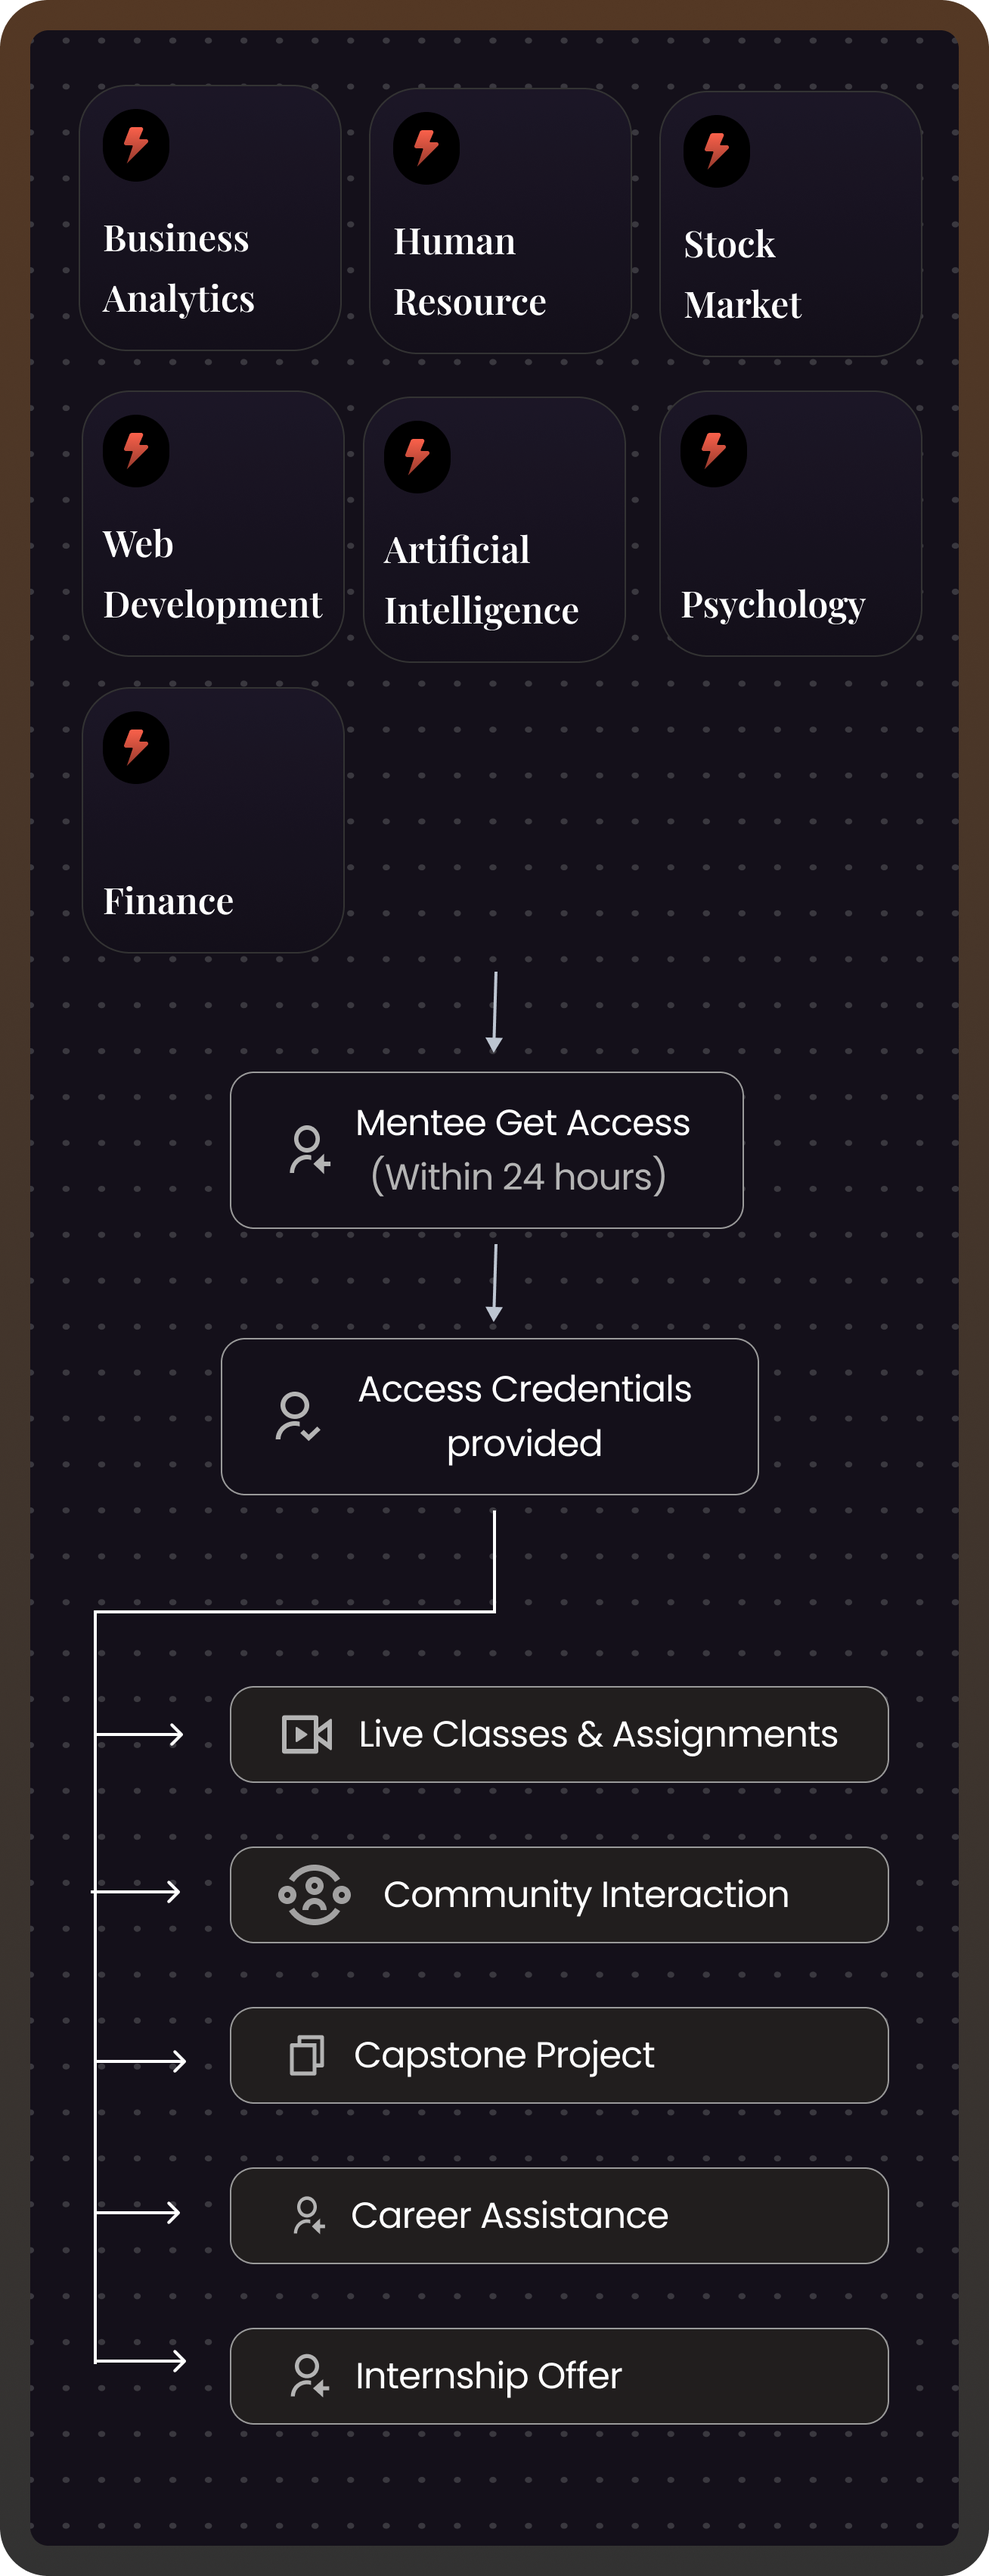
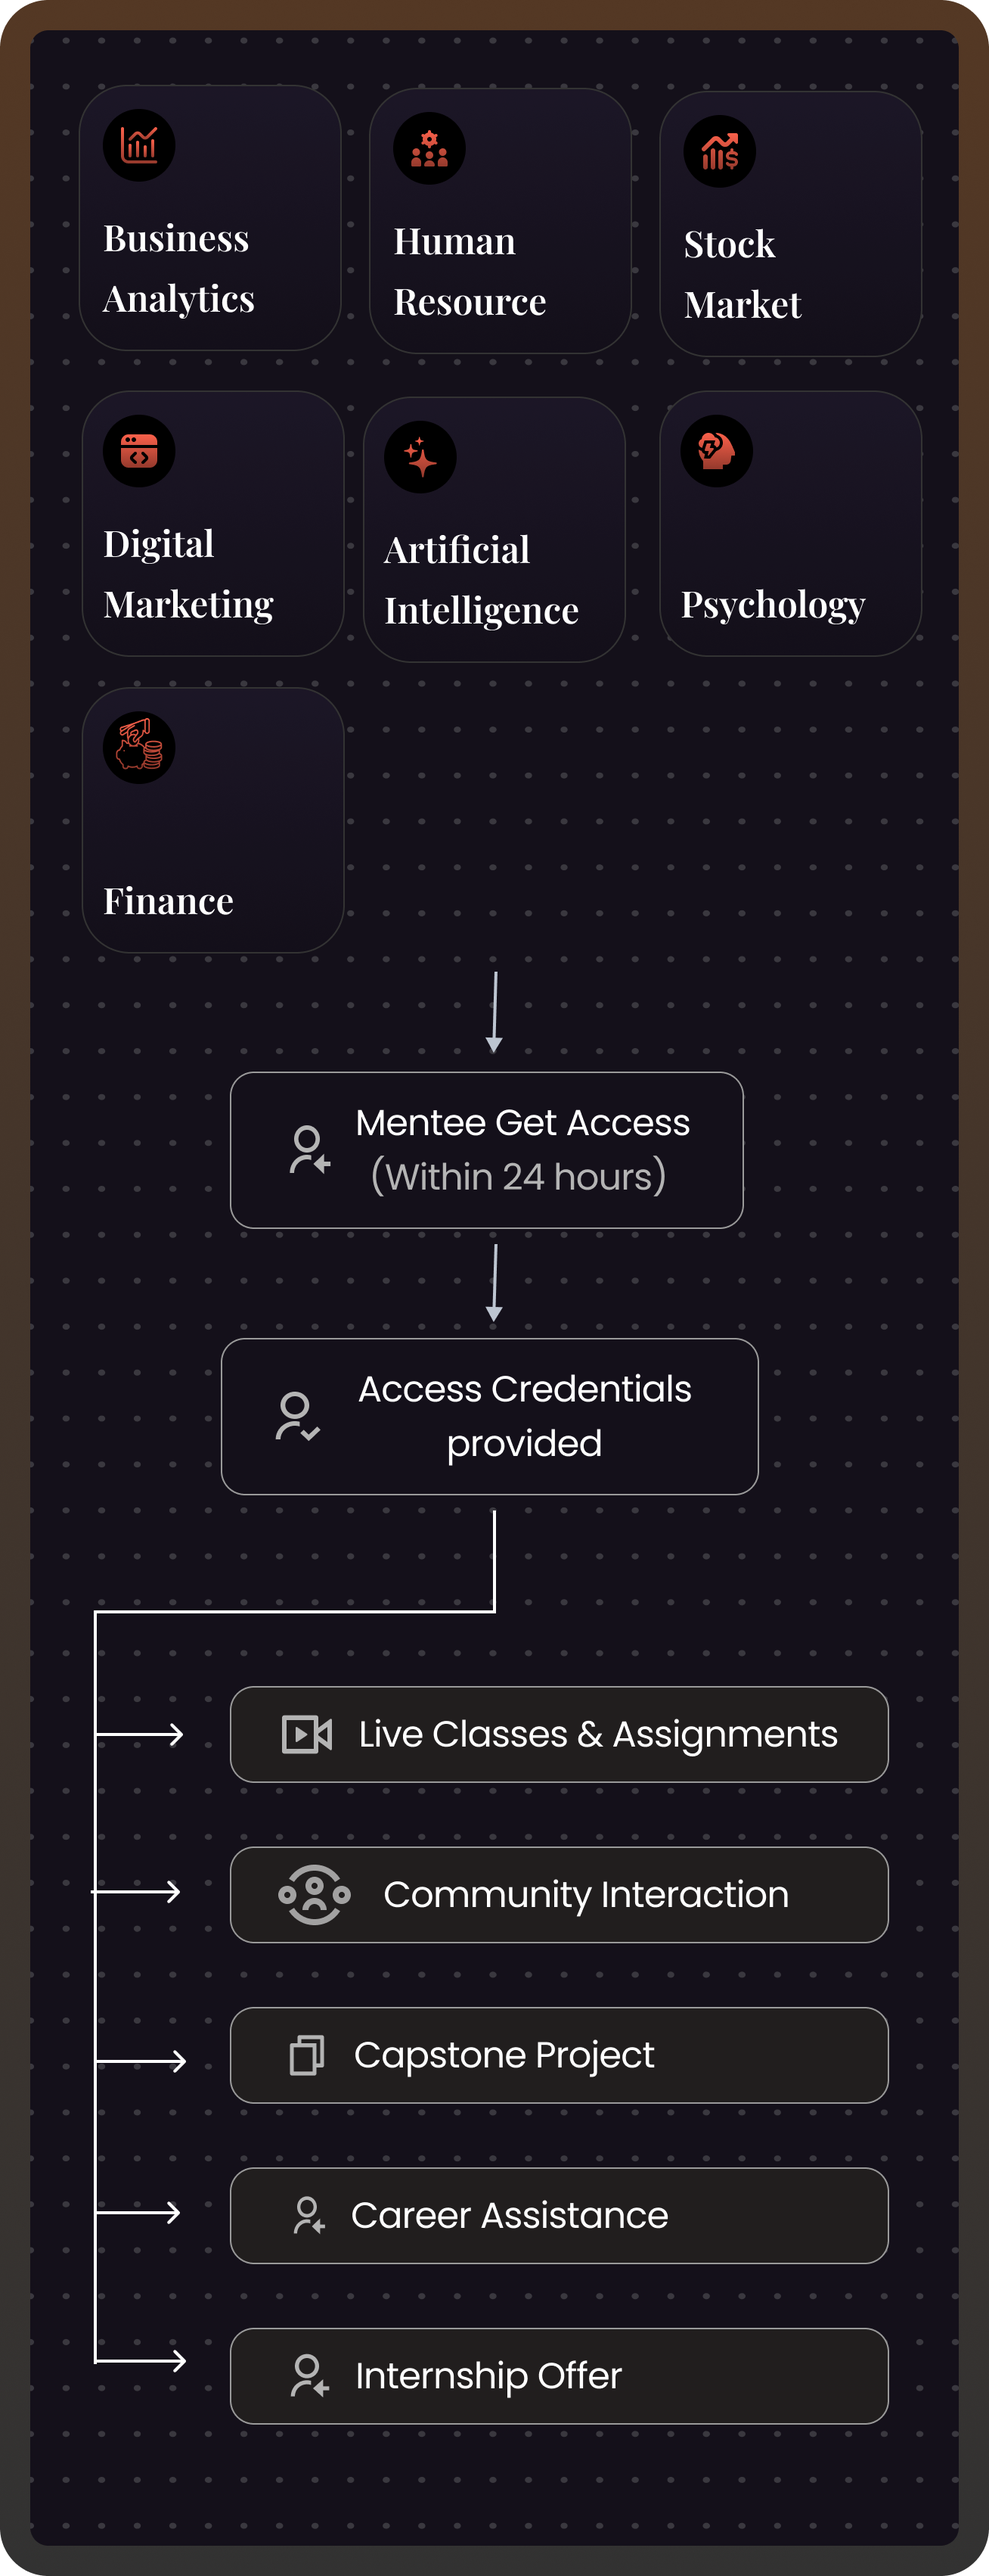
startup page modified

diff --git a/src/components/SuperStack.jsx b/src/components/SuperStack.jsx
@@ -9,7 +9,7 @@ const stackData = [
     subtitle: "5 Diverse Program",
     successRate: "93% land biz roles or launch ventures",
     tag: "Business",
-    footer: "Business Analytics · Human Resource · Finance · Fashion Design",
+    footer: "Graphic Design · UI/UX · Photography · Content creation · UI/UX",
     bgImage: require("../assets/1sttt.png"),
   },
   {
@@ -33,7 +33,7 @@ const stackData = [
     subtitle: "7 Diverse Program",
     successRate: "91% gain  confidence to lead market trends.",
     tag: "Trending",
-    footer: "Nanotechnology · Biotech · psychology · Nanotechnology · Biotech · psychology  ",
+    footer: "Business Analytics · Human Resource · Stock market · Finance · Digital Marketing ",
     bgImage: require("../assets/3rdd.png"),
   },
 ];

diff --git a/src/pages/creator-hub.jsx b/src/pages/creator-hub.jsx
@@ -4,8 +4,8 @@ import { useEffect, useRef, useState } from "react";
 import eightseven from "../assets/88.png";
 import nineseven from "../assets/91.png";
 import nineeight from "../assets/97.png";
-import hubroadmap from '../assets/creative.png';
-import hubroadmapmobile from '../assets/creative-mobile.png';
+import hubroadmap from '../assets/creative-new.png';
+import hubroadmapmobile from '../assets/creative-mobile-new.png';
 import css from '../assets/css.png';
 import brochureImage from "../assets/drone-brochure.png";
 import faqarrow from "../assets/faqarrow.png";
